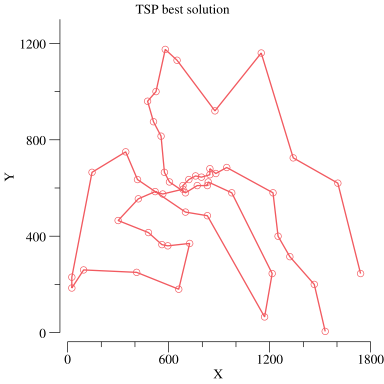
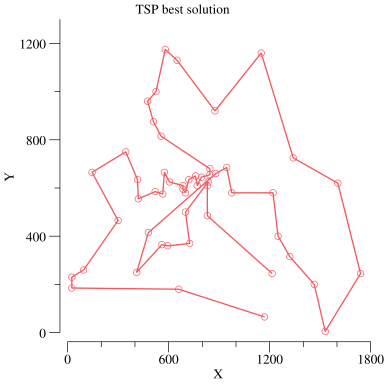
updates SA

diff --git a/src/simulated_annealing/sample_functions.go b/src/simulated_annealing/sample_functions.go
@@ -1,6 +1,9 @@
 package main
 
 import (
+	"code.google.com/p/plotinum/plot"
+	"code.google.com/p/plotinum/plotter"
+	"code.google.com/p/plotinum/plotutil"
 	"encoding/csv"
 	"fmt"
 	"io"
@@ -17,7 +20,7 @@ func random_int(min, max int) int {
 }
 
 
-/** Take in a solution and make one change to it */
+/** Take in a solution for the "simple" example and make one change to it */
 func simple_make_change(current_solution []int) []int {
 	minval := 1
 	maxval := 10
@@ -32,34 +35,8 @@ func simple_make_change(current_solution []int) []int {
 	return return_value
 }
 
-/** get all neighbors of a given solution. Neighbors in this function
-are defined as all values where just one integer in the array is
-incremented or decremented by 1, and only where integer values remain
-between 1 and 10 */
-func simple_get_neighbors(currentSolution []int) [][]int {
-	minval := 1
-	maxval := 10
-
-	neighbors := make([][]int, 0)
-	temp := make([]int, len(currentSolution))
-
-	for i, value := range currentSolution {
-		if value > minval {
-			copy(temp, currentSolution)
-			temp[i] = value - 1
-			neighbors = append(neighbors, make([]int, len(currentSolution)))
-			copy(neighbors[len(neighbors)-1], temp)
-		}
-		if value < maxval {
-			copy(temp, currentSolution)
-			temp[i] = value + 1
-			neighbors = append(neighbors, make([]int, len(currentSolution)))
-			copy(neighbors[len(neighbors)-1], temp)
-		}
-	}
-	return neighbors
-}
-
+/** evaluate a solution by adding together all elements in the array
+*	multiplied by those elements' positions */
 func simple_evaluation(a []int) (sum float64) {
 	for i := 0; i < len(a); i++ {
 		sum += float64(a[i] * (i + 1))
@@ -67,7 +44,7 @@ func simple_evaluation(a []int) (sum float64) {
 	return sum
 }
 
-/** return an array with 5 random integers between 1 and 10 */
+/** return an array with 6 random integers between 1 and 10 */
 func simple_create_random_start() []int {
 	size := 6
 	random_start := make([]int, size)
@@ -77,22 +54,18 @@ func simple_create_random_start() []int {
 	return random_start
 }
 
-func tsp_get_neighbors(currentSolution []int) [][]int {
-	neighbors := make([][]int, 0)
-	temp_neighbor := make([]int, len(currentSolution))
-	var temp_int int
+/** Take in a solution for the TSP example and make one change to it */
+func tsp_make_change(current_solution []int) []int {
+	length := len(current_solution)
+	return_value := make([]int, len(current_solution))
+	copy(return_value, current_solution)
+	random_int_1 := random_int(0,length-1)
+	random_int_2 := random_int(0,length-1)
+	temp := return_value[random_int_1]
+	return_value[random_int_1] = return_value[random_int_2]
+	return_value[random_int_2] = temp
 
-	for i := 0; i < len(currentSolution); i++ {
-		for j := i + 1; j < len(currentSolution); j++ {
-			copy(temp_neighbor, currentSolution)
-			temp_int = temp_neighbor[i]
-			temp_neighbor[i] = temp_neighbor[j]
-			temp_neighbor[j] = temp_int
-			neighbors = append(neighbors, make([]int, len(currentSolution)))
-			copy(neighbors[len(neighbors)-1], temp_neighbor)
-		}
-	}
-	return neighbors
+	return return_value
 }
 
 var g_data [][]int
@@ -136,4 +109,27 @@ func tsp_evaluation(path []int) (sum float64) {
 func tsp_create_random_start() []int {
 	size := len(g_data)
 	return rand.Perm(size)
+}
+
+// Takes in an array of which order to visit cities and plots the route. Assumes
+// that g_data global variable has already been initialized with tsp_setup_data
+// function.
+func plotTSP(city_order []int, file_name string) {
+	pts := make(plotter.XYs, len(city_order))
+	for i := 0; i < len(city_order); i++ {
+		pts[i].X = float64(g_data[city_order[i]][0])
+		pts[i].Y = float64(g_data[city_order[i]][1])
+	}
+
+	p, _ := plot.New()
+	p.Title.Text = "TSP best solution"
+	p.X.Label.Text = "X"
+	p.Y.Label.Text = "Y"
+
+	plotutil.AddLinePoints(p, "", pts)
+	p.X.Min = 0
+	p.X.Max = 1800
+	p.Y.Min = 0
+	p.Y.Max = 1300
+	p.Save(4, 4, file_name)
 }

diff --git a/src/simulated_annealing/simulated_annealing.go b/src/simulated_annealing/simulated_annealing.go
@@ -4,7 +4,10 @@ import "fmt"
 import "time"
 import "math/rand"
 import "math"
+import "strconv"
 
+// Uses the make_change function to make num_changes to the current solution and then returns the
+// solution with the random changes made
 func make_changes(current_solution []int, make_change func([]int) []int, num_changes int)([] int) {
 	new_solution := make([]int, len(current_solution))
 	copy(new_solution, current_solution)
@@ -31,6 +34,7 @@ func make_changes(current_solution []int, make_change func([]int) []int, num_cha
 func simulated_annealing(initial_solution []int, evaluate func([]int) float64, make_change func([]int) []int,
 						 init_temp float64, thermostat float64, itol int, reannealing int)([]int, float64) {
 
+	// setup all the necessary variables
 	current_solution := make([]int, len(initial_solution))
 	proposed_solution := make([]int, len(initial_solution))
 	return_solution := make([]int, len(initial_solution))
@@ -102,13 +106,29 @@ func main() {
 	fmt.Println("Simulated annealing results", best_solution, highest_score)
 	
 	// Run on a travelling salesman problem with cities in the file tsp_data.csv (40 cities)
-	/*fmt.Println("RUN ON TSP")
+	fmt.Println("RUN ON TSP")
 	tsp_setup_data()
 	p2 := make([]int, len(g_data))
 	for i := 0; i < len(g_data); i++ {
 		p2[i] = i
 	}
+
+	// setup SA parameters
+	init_temp := 16.0
+	thermostat := 0.9
+	iterations := 1000000
+	reannealing := 60
+
+	num_runs := 10
+
 	fmt.Println("Initial distance:", -tsp_evaluation(p2))
-	best_solution, highest_score = simulated_annealing(p2, tsp_evaluation)
-	fmt.Println("Simulated annealing results):", -highest_score)*/
+	total := 0.0;
+	for i:=0;i<num_runs;i++ {
+		p2 = tsp_create_random_start()
+		best_solution, highest_score = simulated_annealing(p2, tsp_evaluation,tsp_make_change,init_temp,thermostat,iterations,reannealing)
+		fmt.Println(-highest_score)
+		total += highest_score
+		plotTSP(best_solution, "tsp_SA"+strconv.Itoa(i)+".png")
+	}
+	fmt.Println("Average score:", -total/float64(num_runs))
 }

diff --git a/src/beam_search/beam_search.go b/src/beam_search/beam_search.go
@@ -264,7 +264,7 @@ func main() {
 	best_solution, highest_score := beam_search(50, tsp_evaluation, tsp_create_random_start, tsp_get_neighbors)
 	fmt.Println("beam search results", best_solution, -highest_score)
 	plotTSP(best_solution, "tsp_beam_search.png")
-	best_solution, highest_score = stochastic_beam_search(50, 1000, tsp_evaluation, tsp_create_random_start, tsp_get_neighbors)
+	best_solution, highest_score = stochastic_beam_search(50, 200, tsp_evaluation, tsp_create_random_start, tsp_get_neighbors)
 	fmt.Println("stochastic beam search results", best_solution, -highest_score)
 	plotTSP(best_solution, "tsp_stochastic_beam_search.png")
 
